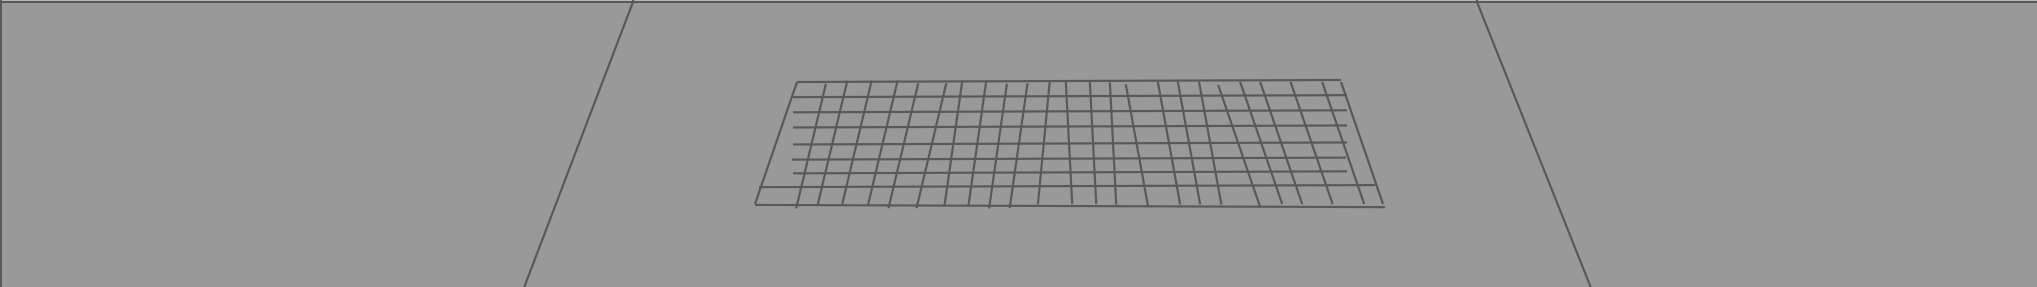
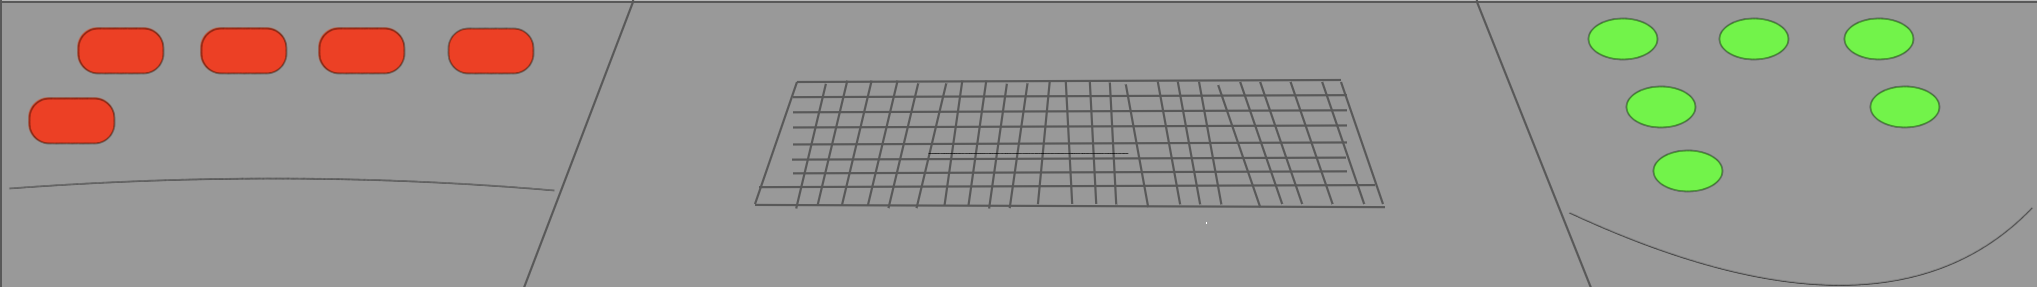
added styling

diff --git a/mission-control-frontend/src/index.js b/mission-control-frontend/src/index.js
@@ -37,7 +37,7 @@
     {name: "Arlene McKinney", skill: "Mechanic", gender: "female", rating: 62, cost: 20000},
     {name: "Ken Blevins", skill: "Mechanic", gender: "male", rating: 73, cost: 32000}]
 
-var FUNDING = 10000000;
+var FUNDING = 1000000;
 var MISSION_CREW = [];
 
   document.addEventListener('DOMContentLoaded', () => {
@@ -99,7 +99,7 @@ var MISSION_CREW = [];
         currentStat = str.substring(0, str.length - 1);
         currentStat = parseInt(currentStat)
         if (currentStat < 100) {
-          currentStat = currentStat + 25;
+          currentStat = currentStat + 10;
           o2Bar.style.width = currentStat + "%";
           FUNDING = FUNDING - 10000
           h1.textContent = "Total Funds: $" + FUNDING;
@@ -114,7 +114,7 @@ var MISSION_CREW = [];
         currentStat = str.substring(0, str.length - 1);
         currentStat = parseInt(currentStat);
         if (currentStat < 100) {
-          currentStat = currentStat + 25;
+          currentStat = currentStat + 10;
           fuelBar.style.width = currentStat + "%";
           FUNDING = FUNDING - 10000
           h1.textContent = "Total Funds: $" + FUNDING;
@@ -128,7 +128,7 @@ var MISSION_CREW = [];
         currentStat = str.substring(0, str.length - 1);
         currentStat = parseInt(currentStat)
         if (currentStat < 100) {
-          currentStat = currentStat + 25;
+          currentStat = currentStat + 10;
           foodBar.style.width = currentStat + "%";
           FUNDING = FUNDING - 10000
           h1.textContent = "Total Funds: $" + FUNDING;
@@ -142,7 +142,7 @@ var MISSION_CREW = [];
         currentStat = str.substring(0, str.length - 1);
         currentStat = parseInt(currentStat)
         if (currentStat < 100) {
-          currentStat = currentStat + 25;
+          currentStat = currentStat + 10;
           medBar.style.width = currentStat + "%";
           FUNDING = FUNDING - 10000
           h1.textContent = "Total Funds: $" + FUNDING;
@@ -264,15 +264,22 @@ var MISSION_CREW = [];
     function startGame() {
       btn = document.getElementById('start-game')
       btn.addEventListener('click', () => {
+          
+        resourceDepleting()
+
         crewBtn = document.getElementById('add-crew')
         crewBtn.remove();
         crewDeleteButtons = document.querySelectorAll('#crew-delete')
         crewDeleteButtons.forEach(btn => {
           console.log(btn)
           btn.remove();
+
+          
+          startEvents();
         })
       })
-      startEvents()
+      
+      
     }
 
 
@@ -287,8 +294,45 @@ var MISSION_CREW = [];
       })
     }
       
+    // function resourceDeplete() {
+    //       for(let i = 0; i < 100; i++){
+    //         resourceDepleting();
+            
+    //       }
+          
+    // }
 
-    
+    function resourceDepleting(){
+      let medBar = document.getElementById('med-stat')
+      let foodBar = document.getElementById('food-stat')
+      let o2Bar = document.getElementById('o2-stat')
+      let fuelBar = document.getElementById('fuel-stat')
+
+      setInterval(function () {
+      medStat = medBar.style.width
+      currentMedStat = medStat.substring(0, medStat.length - 1);
+      currentMedStat = currentMedStat - 5;
+      medBar.style.width = currentMedStat + "%";
+
+
+      foodStat = foodBar.style.width
+      currentFoodStat = foodStat.substring(0, foodStat.length - 1);
+      currentFoodStat = currentFoodStat - 5;
+      foodBar.style.width = currentFoodStat + "%";
+
+      o2Stat = o2Bar.style.width
+      currentO2Stat = o2Stat.substring(0, o2Stat.length - 1);
+      currentO2Stat = currentO2Stat - 5;
+      o2Bar.style.width = currentO2Stat + "%";
+
+      fuelStat = fuelBar.style.width
+      currentFuelStat = fuelStat.substring(0, fuelStat.length - 1);
+      currentFuelStat = currentFuelStat - 5;
+      fuelBar.style.width = currentFuelStat + "%";
+
+      }, 2000)
+
+    }
 
     
     // var scene = new THREE.Scene();

diff --git a/mission-control-frontend/style.css b/mission-control-frontend/style.css
@@ -432,3 +432,45 @@ i {
 background-color: gray;
 
 }
+
+.spaceship-gifs {
+  max-height: 50px;
+}
+
+
+.spaceship-gifs img{
+  margin-top: 10px;
+  max-height: 175px;
+  margin-left: 20px;
+  float:left;
+  box-shadow: 10px 10px 29px -15px rgba(0,0,0,0.75);
+  	border-radius:10px;
+-moz-border-radius:10px;
+-webkit-border-radius:10px;
+}
+
+.gravitron-gifs img {
+  max-height: 150px;
+  margin-right: 50px;
+  margin-top: 20px;
+  margin-left: 70px;
+  box-shadow: 10px 10px 29px -15px rgba(0,0,0,0.75);
+  	border-radius:10px;
+-moz-border-radius:10px;
+-webkit-border-radius:10px;
+}
+
+.keyboard {
+  background-image: url("src/images/keyboard.png");
+  /* background-size: 150px; */
+  background-position: center;
+  width: 100%;
+  height: 300px;
+  
+}
+
+.keyboard img {
+  margin-left: 670px;
+  margin-top: 75px;
+  width: 625px;
+}

diff --git a/mission-control-frontend/index.html b/mission-control-frontend/index.html
@@ -70,7 +70,14 @@
 
             <div class="display-left">
                 <div class="display-div">
-                    <img src="./src/images/rocket.png" alt="">
+                    <div class="spaceship-gifs">
+                        <img src="./src/images/spaceship.gif" alt="">
+                    </div>
+
+                    <div class="gravitron-gifs">
+                        <img src="./src/images/gravitron.gif" alt="">
+                    </div>
+                    
                 </div>
 
             </div>
@@ -110,9 +117,8 @@
         </div>
     </div>
 
-
     <div class="keyboard">
-        <img src="src/images/keyboard.png">
+        <!-- <img src="./src/images/keys.png" alt=""> -->
     </div>
     <div class="">
         <h1></h1>
